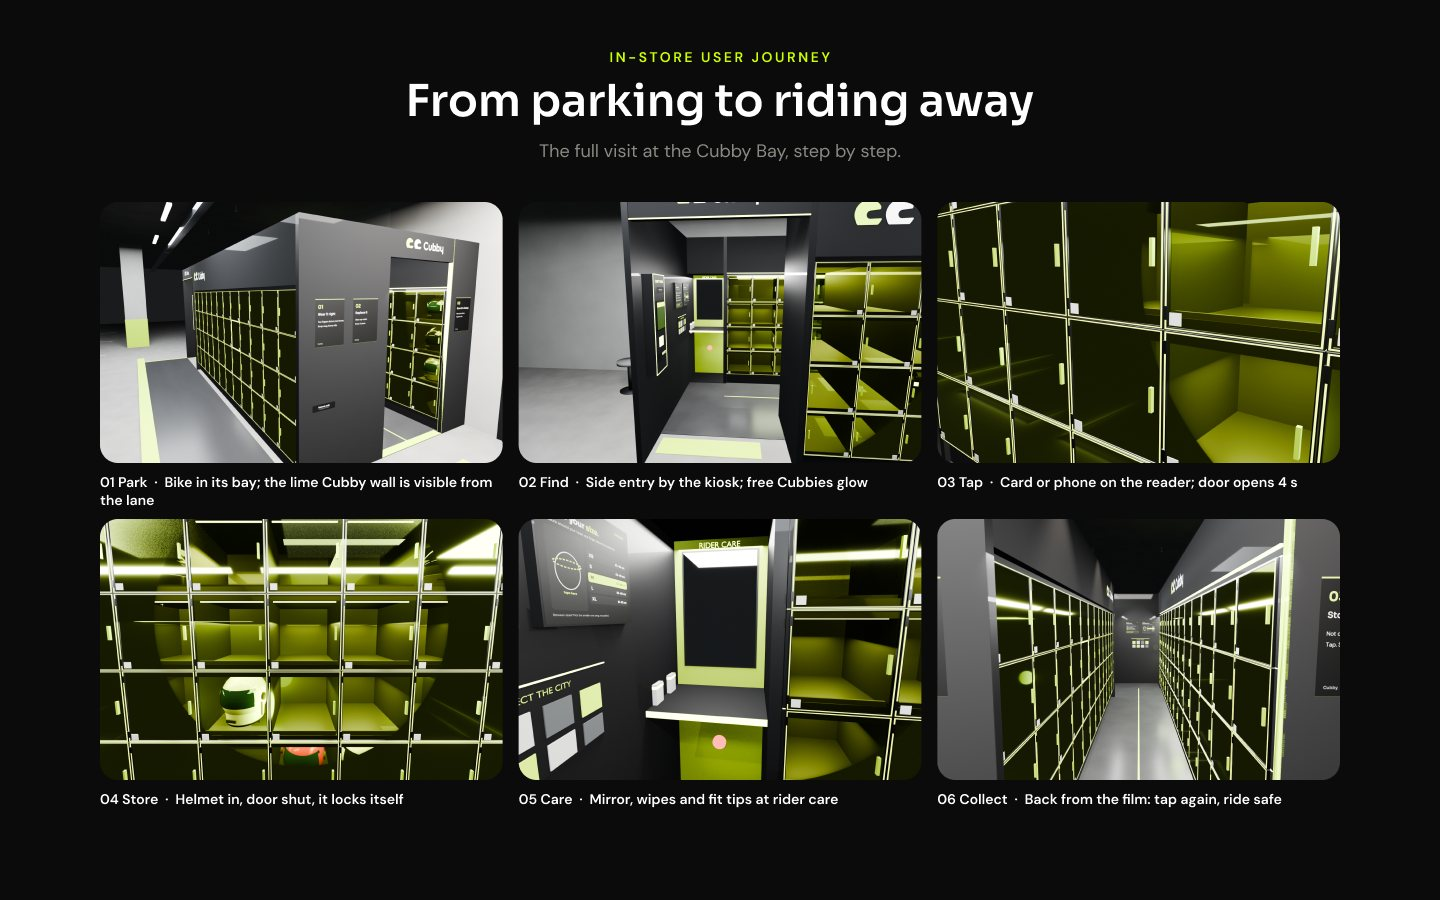
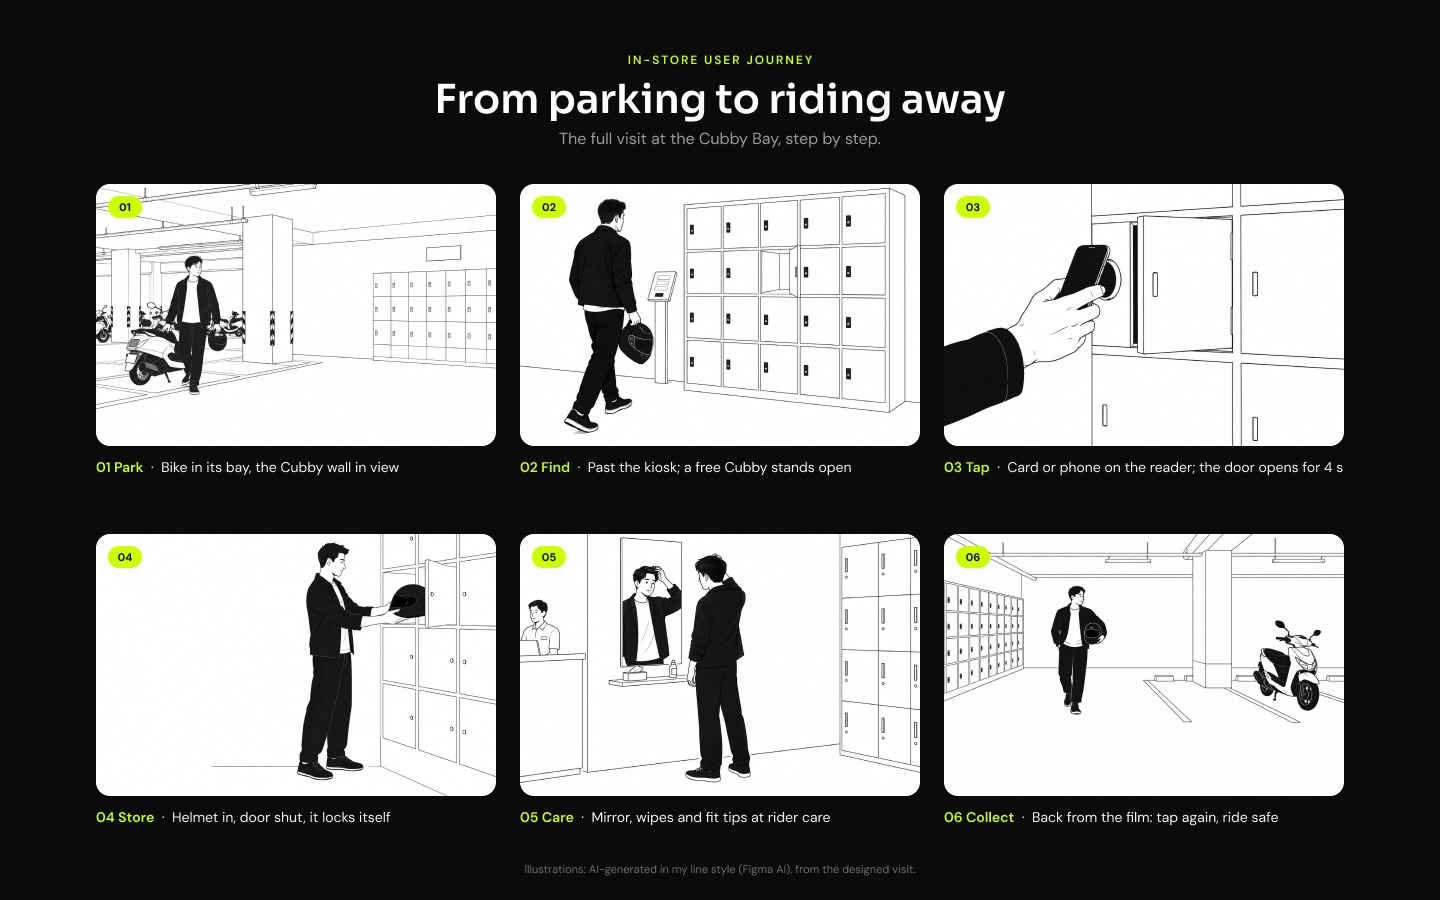
Cubby: in-store journey with illustrated scenes in Sijo's line style (Figma AI), replacing the Blender renders

diff --git a/cubby/index.html b/cubby/index.html
@@ -25,7 +25,7 @@
 <section class="slide"><img data-src="c15.jpg" alt="Cubby slide 15"></section>
 <section class="slide"><img data-src="c16.jpg" alt="Cubby slide 16"></section>
 <section class="slide"><img data-src="c17.jpg" alt="Cubby slide 17"></section>
-<section class="slide"><img data-src="c18.jpg" alt="Cubby slide 18"></section>
+<section class="slide"><img data-src="c18.jpg?v=2" alt="Cubby slide 18"></section>
 <section class="slide"><img data-src="c19.jpg" alt="Cubby slide 19"></section>
 <section class="slide"><img data-src="c20.jpg" alt="Cubby slide 20"></section>
 <section class="slide"><img data-src="c21.jpg" alt="Cubby slide 21"></section>
@@ -64,7 +64,7 @@
 <section class="slide"><img data-src="c54.jpg" alt="Cubby slide 54"></section>
 <section class="slide"><img data-src="c55.jpg" alt="Cubby slide 55"></section>
 <section class="slide"><img data-src="c56.jpg" alt="Cubby slide 56"></section>
-<section class="slide"><img data-src="c57.jpg?v=2" alt="Cubby slide 57"></section>
+<section class="slide"><img data-src="c57.jpg?v=3" alt="Cubby slide 57"></section>
 <section class="slide"><img data-src="c58.jpg" alt="Cubby slide 58"></section>
 <section class="slide"><img data-src="c59.jpg" alt="Cubby slide 59"></section>
 <section class="slide"><img data-src="c60.jpg" alt="Cubby slide 60"></section>
